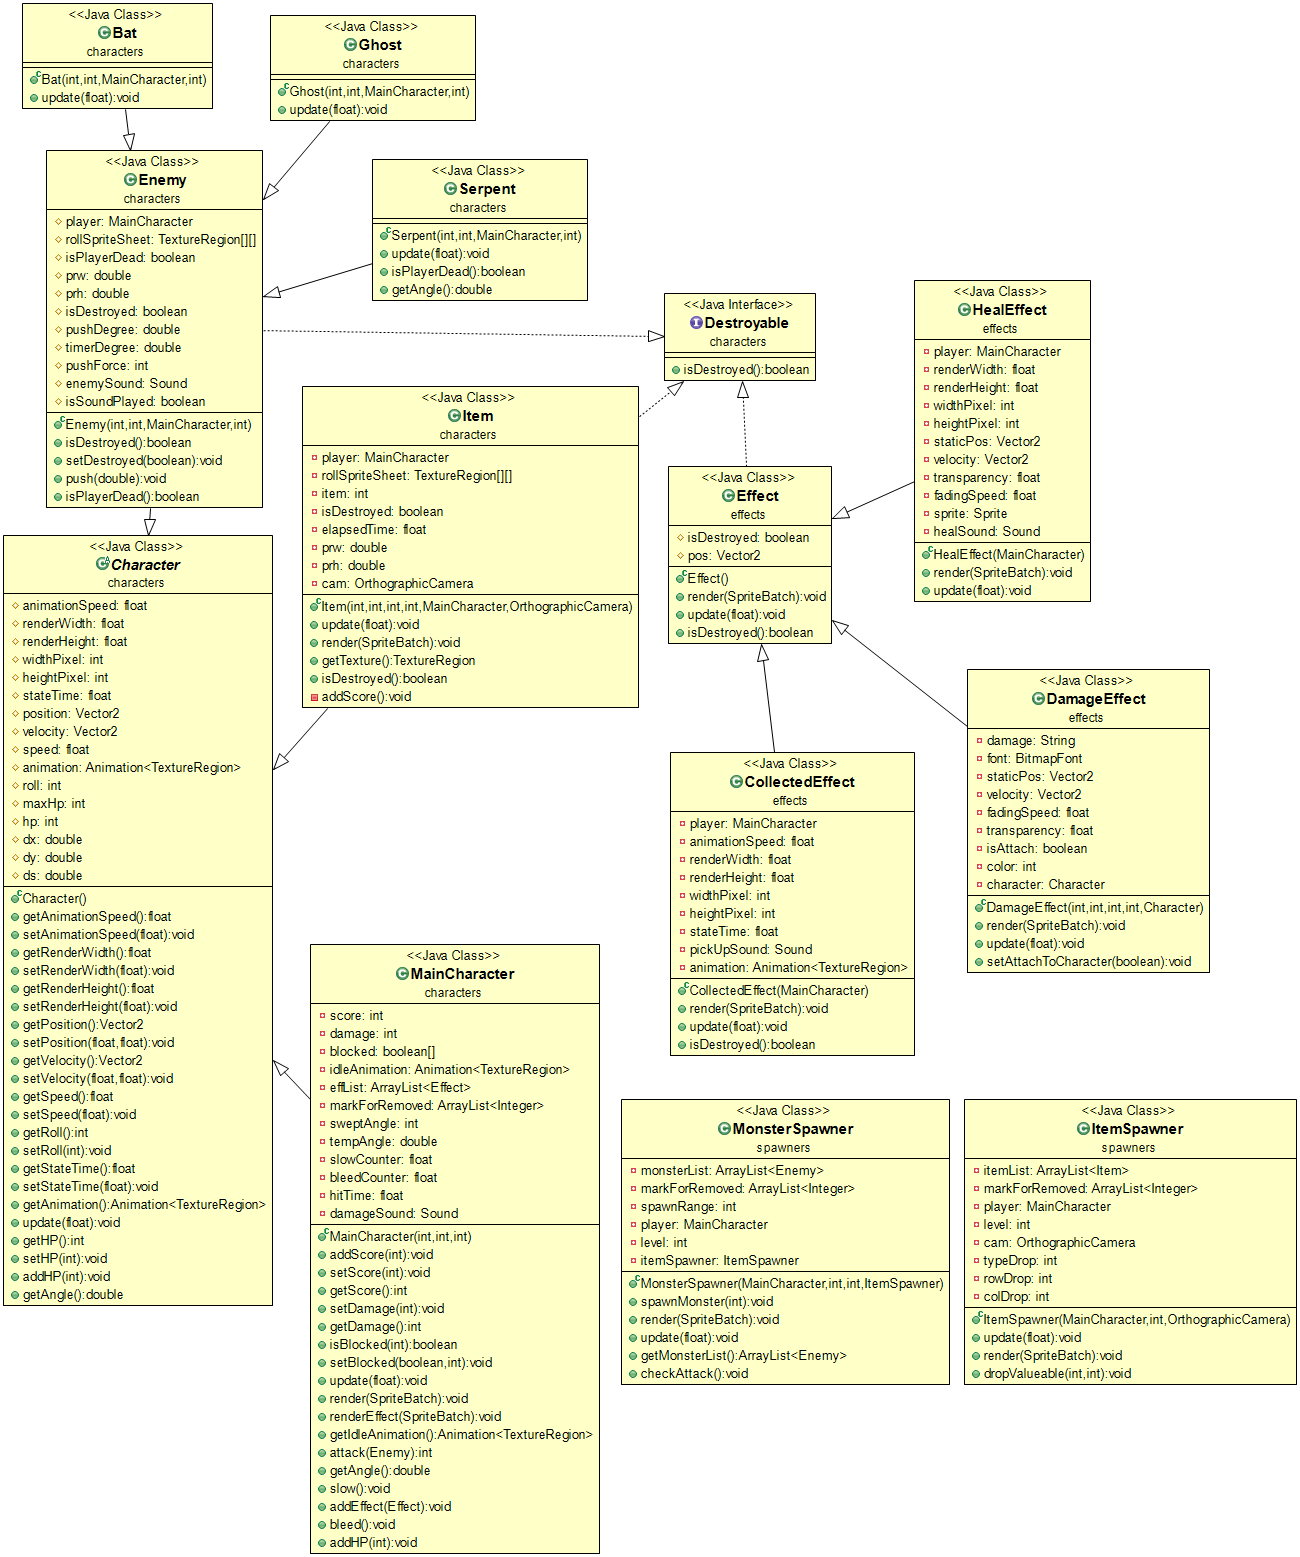
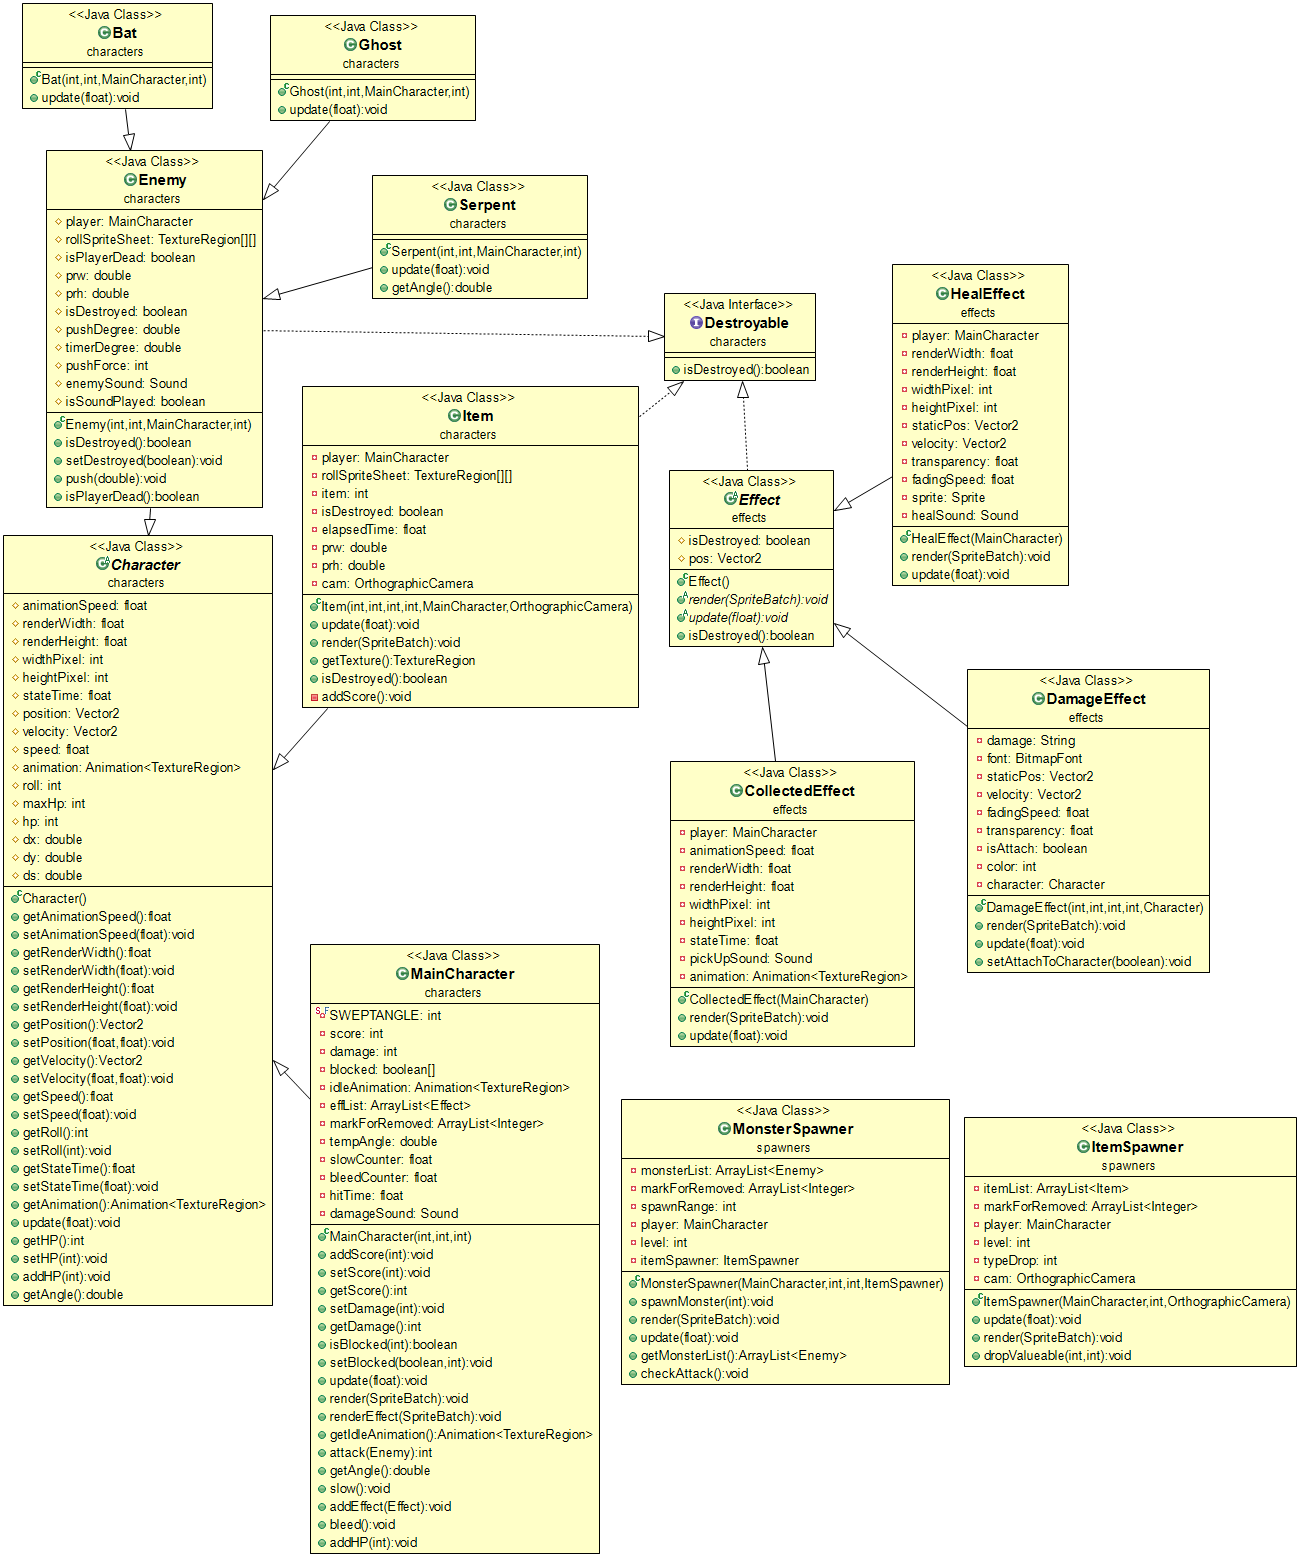
Complete Game

diff --git a/core/src/characters/MainCharacter.java b/core/src/characters/MainCharacter.java
@@ -14,16 +14,14 @@ import effects.Effect;
 
 public class MainCharacter extends Character {
 
+	private static final int SWEPTANGLE = 45;
 	private int score;
 	private int damage;
 	private boolean[] blocked;
 	private Animation<TextureRegion>[] idleAnimation;
 	private ArrayList<Effect> effList;
 	private ArrayList<Integer> markForRemoved;
-
-	private int sweptAngle = 45;
 	private double tempAngle;
-
 	private float slowCounter;
 	private float bleedCounter;
 	private float hitTime;
@@ -206,10 +204,10 @@ public class MainCharacter extends Character {
 		tempAngle = getAngle();
 		ds = Math.sqrt(Math.pow(dx, 2) + Math.pow(dy, 2));
 		if (ds <= 30 && enemy.getHP() > 0) {
-			if ((roll == 4 && 270 - sweptAngle < tempAngle && tempAngle < 270 + sweptAngle)
-					|| (roll == 5 && 180 - sweptAngle < tempAngle && tempAngle < 180 + sweptAngle)
-					|| (roll == 6 && 0 - sweptAngle < tempAngle && tempAngle < 0 + sweptAngle)
-					|| (roll == 7 && 90 - sweptAngle < tempAngle && tempAngle < 90 + sweptAngle)) {
+			if ((roll == 4 && 270 - SWEPTANGLE < tempAngle && tempAngle < 270 + SWEPTANGLE)
+					|| (roll == 5 && 180 - SWEPTANGLE < tempAngle && tempAngle < 180 + SWEPTANGLE)
+					|| (roll == 6 && 0 - SWEPTANGLE < tempAngle && tempAngle < 0 + SWEPTANGLE)
+					|| (roll == 7 && 90 - SWEPTANGLE < tempAngle && tempAngle < 90 + SWEPTANGLE)) {
 				enemy.push(tempAngle);
 				enemy.setStateTime(0);
 				effList.add(new DamageEffect((int) (enemy.getPosition().x + (enemy.getRenderWidth() / 2)),

diff --git a/core/src/effects/Effect.java b/core/src/effects/Effect.java
@@ -5,7 +5,7 @@ import com.badlogic.gdx.math.Vector2;
 
 import characters.Destroyable;
 
-public class Effect implements Destroyable {
+public abstract class Effect implements Destroyable {
 	protected boolean isDestroyed;
 	protected Vector2 pos;
 
@@ -13,13 +13,8 @@ public class Effect implements Destroyable {
 		isDestroyed = false;
 	}
 
-	public void render(SpriteBatch batch) {
-
-	}
-
-	public void update(float dt) {
-
-	}
+	public abstract void render(SpriteBatch batch);
+	public abstract void update(float dt);
 
 	public boolean isDestroyed() {
 		return isDestroyed;

diff --git a/core/src/com/gameprogmeth/game/world/custommap/CustomGameMap.java b/core/src/com/gameprogmeth/game/world/custommap/CustomGameMap.java
@@ -161,7 +161,7 @@ public class CustomGameMap extends GameMap {
 		}
 	}
 
-	protected void handleInput() {
+	public void handleInput() {
 		if (mainCharacter.getAnimation().isAnimationFinished(mainCharacter.getStateTime())
 				|| mainCharacter.getRoll() < 4) {
 			if (Gdx.input.isKeyPressed(Input.Keys.W) || Gdx.input.isKeyPressed(Input.Keys.UP)) {

diff --git a/core/src/spawners/ItemSpawner.java b/core/src/spawners/ItemSpawner.java
@@ -15,7 +15,7 @@ public class ItemSpawner {
 	private ArrayList<Integer> markForRemoved;
 	private MainCharacter player;
 	private int level;
-	private int typeDrop, rowDrop, colDrop;
+	private int typeDrop;
 	private OrthographicCamera cam;
 
 	public ItemSpawner(MainCharacter player, int level, OrthographicCamera cam) {

diff --git a/desktop/src/com/gameprogmeth/game/desktop/DesktopLauncher.java b/desktop/src/com/gameprogmeth/game/desktop/DesktopLauncher.java
@@ -11,7 +11,6 @@ public class DesktopLauncher {
 		config.width = GameProgMeth.WIDTH;
 		config.height = GameProgMeth.HEIGHT;
 		config.resizable = false;
-//		config.fullscreen = true;
 		config.forceExit = true;
 		new LwjglApplication(new GameProgMeth(), config);
 	}

diff --git a/core/src/characters/Serpent.java b/core/src/characters/Serpent.java
@@ -67,10 +67,6 @@ public class Serpent extends Enemy {
 		}
 	}
 
-	public boolean isPlayerDead() {
-		return isPlayerDead;
-	}
-
 	@Override
 	public double getAngle() {
 		float angle = (float) Math.toDegrees(Math.atan2(dy, dx));

diff --git a/core/src/com/gameprogmeth/game/world/custommap/Triple.java b/core/src/com/gameprogmeth/game/world/custommap/Triple.java
@@ -28,10 +28,4 @@ public class Triple implements Comparable<Triple> {
 		}
 		return -1;
 	}
-
-	@Override
-	public String toString() {
-		return "Triple [value=" + value + ", coX=" + coX + ", coY=" + coY + "]";
-	}
-
 }

diff --git a/core/src/effects/CollectedEffect.java b/core/src/effects/CollectedEffect.java
@@ -50,10 +50,4 @@ public class CollectedEffect extends Effect {
 		}
 		stateTime += dt;
 	}
-
-	@Override
-	public boolean isDestroyed() {
-		return isDestroyed;
-	}
-
 }
